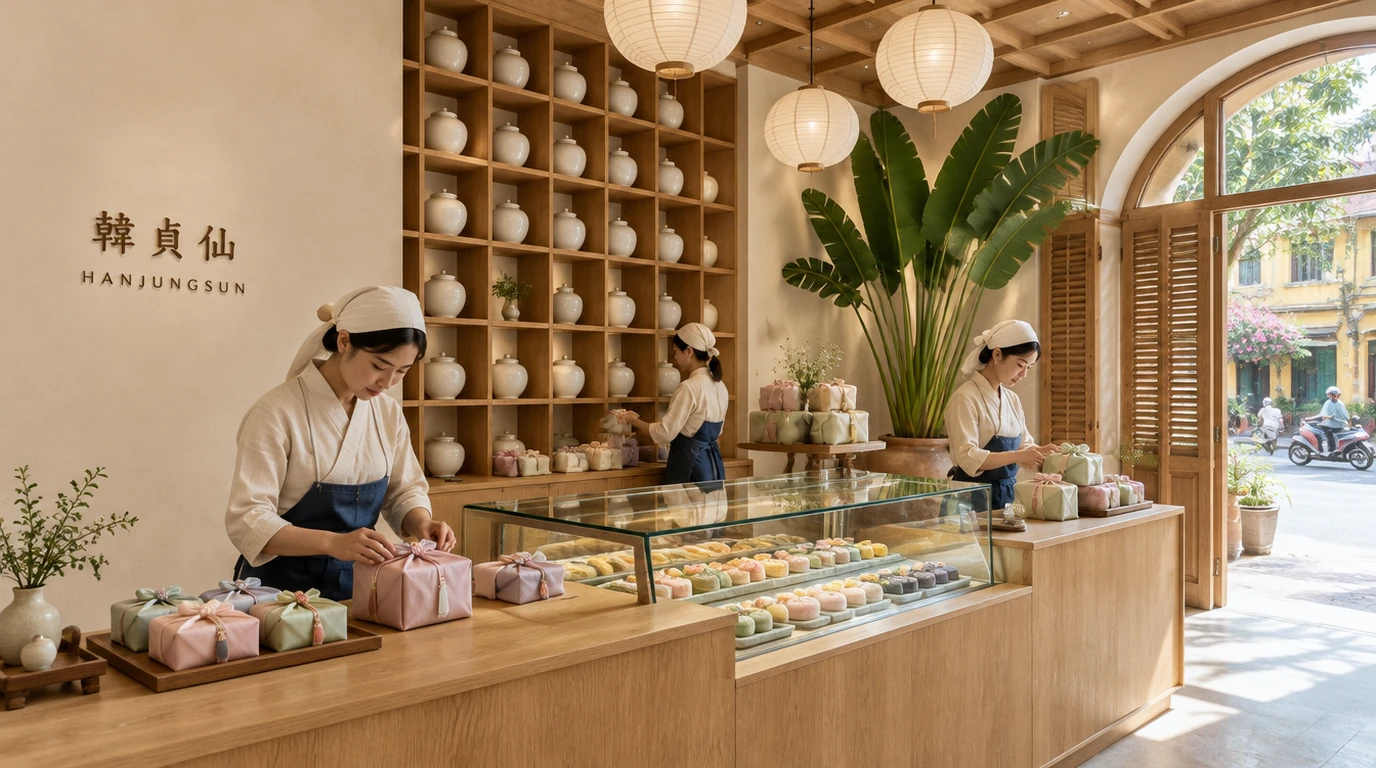
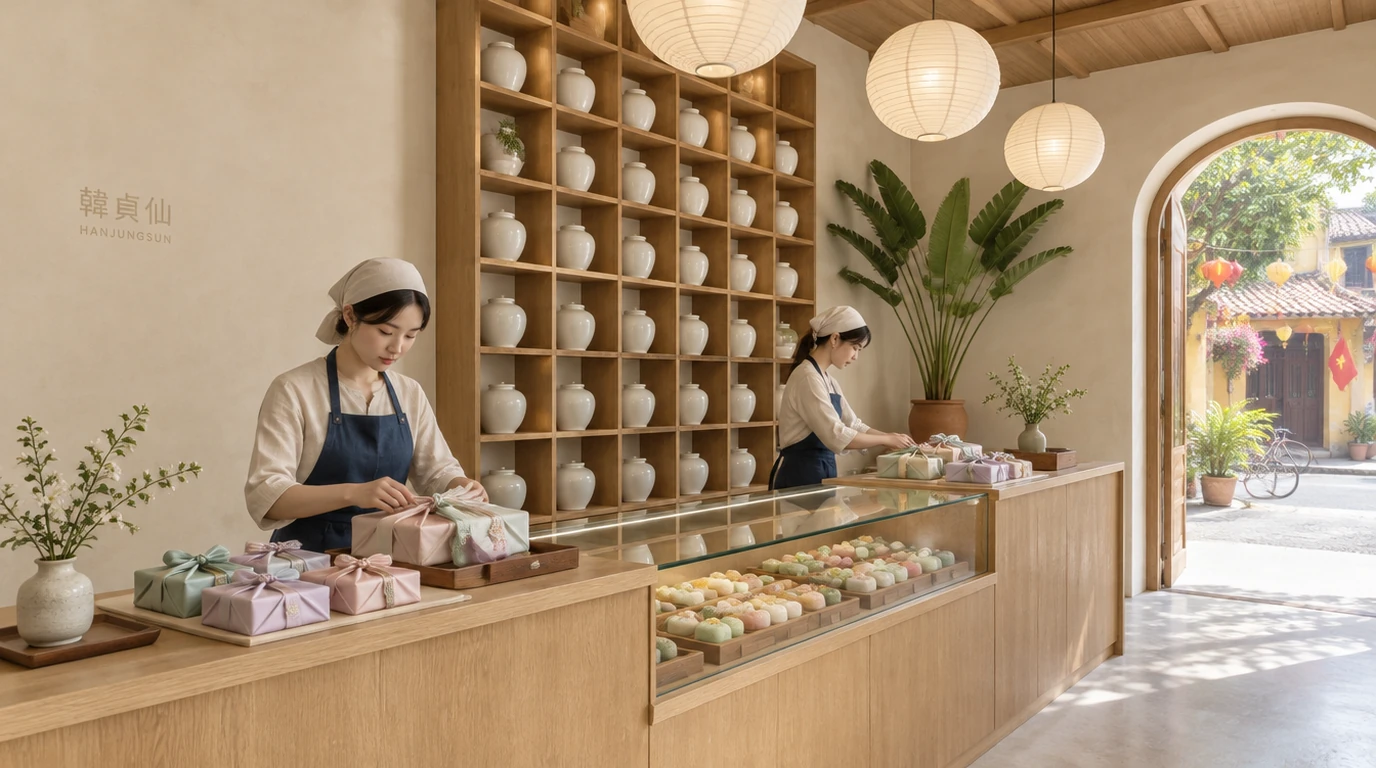
Draw carousel arrows as SVG and soften the Ben Song store mark
Browser auto-translation rewrote the "←" and "→" glyphs in the journal and
collection buttons as the Korean word for "left", which rendered as wrapped
text inside the 44px circles. The arrows are now inline SVG paths carrying
translate="no", so there is no text node left for a translator to rewrite.
The aria-labels are unchanged.

The Ben Song store photograph is regenerated with a small tone-on-tone wall
mark instead of a prominent bronze sign, matching the restrained look the
brand uses elsewhere. Same path and dimensions, so nothing else moves.

diff --git a/index.html b/index.html
@@ -16,8 +16,8 @@
   <main id="main">
     <section class="hero" id="home"><h1>HANJUNGSUN</h1><div class="hero-photo"><img src="assets/vietnam-four-hero-v3.webp" alt="Four confirmed Vietnam rice cakes: mangosteen, mango yogurt, honey red dragon fruit and durian" fetchpriority="high" width="1448" height="1086"></div></section>
     <section class="story" id="story"><div class="section-prelude reveal"><h2 data-t="storyTitle"></h2><p data-t="storyIntro"></p></div><div class="story-gallery"><div class="sticky-brand"><div class="brand-seal"><span>韓貞仙</span><small>HANJUNGSUN</small></div></div><div class="collage"><figure class="collage-photo photo-1" data-gallery-photo><img src="assets/gallery/01.webp" alt="Hands shaping rice cakes" loading="lazy" decoding="async"></figure><figure class="collage-photo photo-2" data-gallery-photo><img src="assets/gallery/02.webp" alt="Korean store ceramics" loading="lazy" decoding="async"></figure><figure class="collage-photo photo-3" data-gallery-photo><img src="assets/gallery/03.webp" alt="Crafting a rice cake" loading="lazy" decoding="async"></figure><figure class="collage-photo photo-4" data-gallery-photo><img src="assets/gallery/04.webp" alt="The team at work" loading="lazy" decoding="async"></figure><figure class="collage-photo photo-5" data-gallery-photo><img src="assets/gallery/05.webp" alt="Preparing a gift" loading="lazy" decoding="async"></figure><figure class="collage-photo photo-6" data-gallery-photo><img src="assets/gallery/06.webp" alt="Fruit rice cake cross sections" loading="lazy" decoding="async"></figure><figure class="collage-photo photo-7" data-gallery-photo><img src="assets/gallery/07.webp" alt="Traditional fabric wrapped gifts" loading="lazy" decoding="async"></figure><figure class="collage-photo photo-8" data-gallery-photo><img src="assets/gallery/08.webp" alt="Spring gift collection" loading="lazy" decoding="async"></figure><figure class="collage-photo photo-9" data-gallery-photo><img src="assets/gallery/09.webp" alt="Refined gift packaging" loading="lazy" decoding="async"></figure><figure class="collage-photo photo-10" data-gallery-photo><img src="assets/gallery/10.webp" alt="A welcome at the Korean store" loading="lazy" decoding="async"></figure><figure class="collage-photo photo-11" data-gallery-photo><img src="assets/gallery/11.webp" alt="Inside a Korean store" loading="lazy" decoding="async"></figure><figure class="collage-photo photo-12" data-gallery-photo><img src="assets/gallery/12.webp" alt="Department store display" loading="lazy" decoding="async"></figure></div></div><div class="story-ending"><div class="gallery-end reveal"><h3 data-t="philosophyTitle"></h3><p data-t="philosophy"></p></div></div></section>
-    <section class="news section-space" id="news"><div class="section-heading reveal"><div><h2 data-t="journalTitle"></h2></div><div class="carousel-arrows"><button data-scroll="-1" aria-label="Previous stories">←</button><button data-scroll="1" aria-label="Next stories">→</button></div></div><div class="news-track" id="news-track"></div></section>
-    <section class="collection section-space" id="collection"><div class="collection-heading reveal"><h2 data-t="collectionTitle"></h2></div><div class="collection-tabs" role="tablist" aria-label="Collections"><button id="tab-vietnam" role="tab" aria-selected="true" aria-controls="product-panel" data-category="vietnam"><span class="collection-tab-seal" aria-hidden="true"><svg viewBox="0 0 32 32"><path d="M16 10C8-2 0 8 10 16C-2 24 8 34 16 22C24 34 34 24 22 16C34 8 24-2 16 10Z"/><path d="m16 10 6 6-6 6-6-6Z"/><path d="M16 22v7M12 27l4 3 4-3"/></svg></span><span class="collection-tab-label" data-t="vietnam">Bộ sưu tập Việt Nam</span></button><button id="tab-original" role="tab" aria-selected="false" aria-controls="product-panel" data-category="original"><span class="collection-tab-seal" aria-hidden="true"><svg viewBox="0 0 32 32"><path d="M16 10C8-2 0 8 10 16C-2 24 8 34 16 22C24 34 34 24 22 16C34 8 24-2 16 10Z"/><path d="m16 10 6 6-6 6-6-6Z"/><path d="M16 22v7M12 27l4 3 4-3"/></svg></span><span class="collection-tab-label" data-t="original">Bộ sưu tập Hàn Quốc</span></button></div><div id="product-panel" role="tabpanel" aria-labelledby="tab-vietnam"><div class="product-stage"><button class="product-arrow prev" aria-label="Previous product">←</button><div class="product-visual"><img id="product-image" src="assets/collection/mangosteen-yogurt-pair-v2.webp" alt="" width="1536" height="1024" decoding="async"></div><button class="product-arrow next" aria-label="Next product">→</button></div><div class="product-copy" aria-live="polite"><h3 id="product-title"></h3></div><div class="product-dots" role="group" aria-label="Product selection"></div></div></section>
+    <section class="news section-space" id="news"><div class="section-heading reveal"><div><h2 data-t="journalTitle"></h2></div><div class="carousel-arrows"><button data-scroll="-1" translate="no" aria-label="Previous stories"><svg class="arrow-glyph" viewBox="0 0 24 24" aria-hidden="true" focusable="false"><path d="M15 5 8 12l7 7"/></svg></button><button data-scroll="1" translate="no" aria-label="Next stories"><svg class="arrow-glyph" viewBox="0 0 24 24" aria-hidden="true" focusable="false"><path d="M9 5l7 7-7 7"/></svg></button></div></div><div class="news-track" id="news-track"></div></section>
+    <section class="collection section-space" id="collection"><div class="collection-heading reveal"><h2 data-t="collectionTitle"></h2></div><div class="collection-tabs" role="tablist" aria-label="Collections"><button id="tab-vietnam" role="tab" aria-selected="true" aria-controls="product-panel" data-category="vietnam"><span class="collection-tab-seal" aria-hidden="true"><svg viewBox="0 0 32 32"><path d="M16 10C8-2 0 8 10 16C-2 24 8 34 16 22C24 34 34 24 22 16C34 8 24-2 16 10Z"/><path d="m16 10 6 6-6 6-6-6Z"/><path d="M16 22v7M12 27l4 3 4-3"/></svg></span><span class="collection-tab-label" data-t="vietnam">Bộ sưu tập Việt Nam</span></button><button id="tab-original" role="tab" aria-selected="false" aria-controls="product-panel" data-category="original"><span class="collection-tab-seal" aria-hidden="true"><svg viewBox="0 0 32 32"><path d="M16 10C8-2 0 8 10 16C-2 24 8 34 16 22C24 34 34 24 22 16C34 8 24-2 16 10Z"/><path d="m16 10 6 6-6 6-6-6Z"/><path d="M16 22v7M12 27l4 3 4-3"/></svg></span><span class="collection-tab-label" data-t="original">Bộ sưu tập Hàn Quốc</span></button></div><div id="product-panel" role="tabpanel" aria-labelledby="tab-vietnam"><div class="product-stage"><button class="product-arrow prev" translate="no" aria-label="Previous product"><svg class="arrow-glyph" viewBox="0 0 24 24" aria-hidden="true" focusable="false"><path d="M15 5 8 12l7 7"/></svg></button><div class="product-visual"><img id="product-image" src="assets/collection/mangosteen-yogurt-pair-v2.webp" alt="" width="1536" height="1024" decoding="async"></div><button class="product-arrow next" translate="no" aria-label="Next product"><svg class="arrow-glyph" viewBox="0 0 24 24" aria-hidden="true" focusable="false"><path d="M9 5l7 7-7 7"/></svg></button></div><div class="product-copy" aria-live="polite"><h3 id="product-title"></h3></div><div class="product-dots" role="group" aria-label="Product selection"></div></div></section>
     <section class="gifting section-space" id="gifting" aria-labelledby="gift-heading">
  <div class="gift-stage">
   <div class="gift-heading reveal"><h2 id="gift-heading" data-t="giftTitle"></h2></div>

diff --git a/section-rework.css b/section-rework.css
@@ -209,3 +209,7 @@ html{scroll-padding-top:clamp(58px,5.2vw,74px)}
  .site-header.over-hero{min-height:72px;padding-top:12px;padding-bottom:8px}
  .site-header.over-hero.lifted{min-height:48px}
 }
+
+/* Arrow glyphs are drawn, not written: browser auto-translation rewrote "←" as a word. */
+.arrow-glyph{width:38%;height:38%;margin:auto;fill:none;stroke:currentColor;stroke-width:1.6;stroke-linecap:round;stroke-linejoin:round}
+.carousel-arrows button,.product-arrow{display:flex;align-items:center;justify-content:center;padding:0;line-height:0}

diff --git a/REVISION_NOTES.md b/REVISION_NOTES.md
@@ -9,8 +9,9 @@
 - 패키지 두 사진의 크기가 달랐던 원인은 이전 레이아웃의 `align-items:center`가 남아 두 번째 프레임이 접힌 것이었습니다. 두 프레임을 같은 규격으로 고정했습니다.
 - 브랜드 섹션과 다낭 매장 섹션을 하나의 세로 사진 위에서 이어지도록 묶었습니다. 사이의 모서리와 경계를 없애고 한 장의 그라데이션 녹색 막이 두 구획을 덮습니다. 세로 사진은 내장 이미지 생성 도구로 제작했습니다(`assets/brand-chapter-tall.webp`).
 - 커서를 브랜드 인장 모양으로 바꿨습니다. 기본은 짙은 녹색 원, 링크·버튼 위에서는 금빛 테두리의 인장입니다. 입력 요소에서는 기본 커서를 유지합니다.
-- 다낭 벤송점 사진을 다시 만들었습니다. 벽면의 한글 ‘한정선’과 용다리 선화를 빼고 `韓貞仙 / HANJUNGSUN` 로고만 남겼습니다. 글자가 깨지지 않은 안을 고르려고 두 장을 생성해 비교했습니다. 같은 경로(`assets/store-tourist.webp`, 1376×768)로 교체하고 원본은 `assets/source/store-tourist-v3a.png`에 보관합니다.
+- 다낭 벤송점 사진을 다시 만들었습니다. 벽면의 한글 ‘한정선’과 용다리 선화를 빼고 `韓貞仙 / HANJUNGSUN` 로고만 남겼습니다. 글자가 깨지지 않은 안을 고르려고 두 장을 생성해 비교했습니다. 같은 경로(`assets/store-tourist.webp`, 1376×768)로 교체하고 벽면 사인은 명조체가 아니라 실제 브랜드 로고처럼 굵고 각진 고딕 획에 `HANJUNGSUN`이 같은 폭으로 붙는 형태로 다시 만들었습니다. 원본은 `assets/source/store-tourist-v4b.png`에 보관합니다.
 - 모서리 반경은 10~18px이 너무 각져 18~34px로 다시 조정했습니다.
+- 캐러셀·제품 화살표의 `←` `→` 글자를 SVG 도형으로 바꾸고 `translate="no"`를 붙였습니다. 브라우저 자동 번역이 화살표 글자를 ‘왼쪽’ 같은 단어로 바꿔 버리는 문제를 막습니다.
 - 콘텐츠·DOM 1004개, 저널 115개, 스크롤 12개, Chrome 경험 367개·컬렉션 배치 144개·브랜드/문의 337개 통과.
 
 ## 2026-10-26 첫 화면·섹션 흐름 재구성
